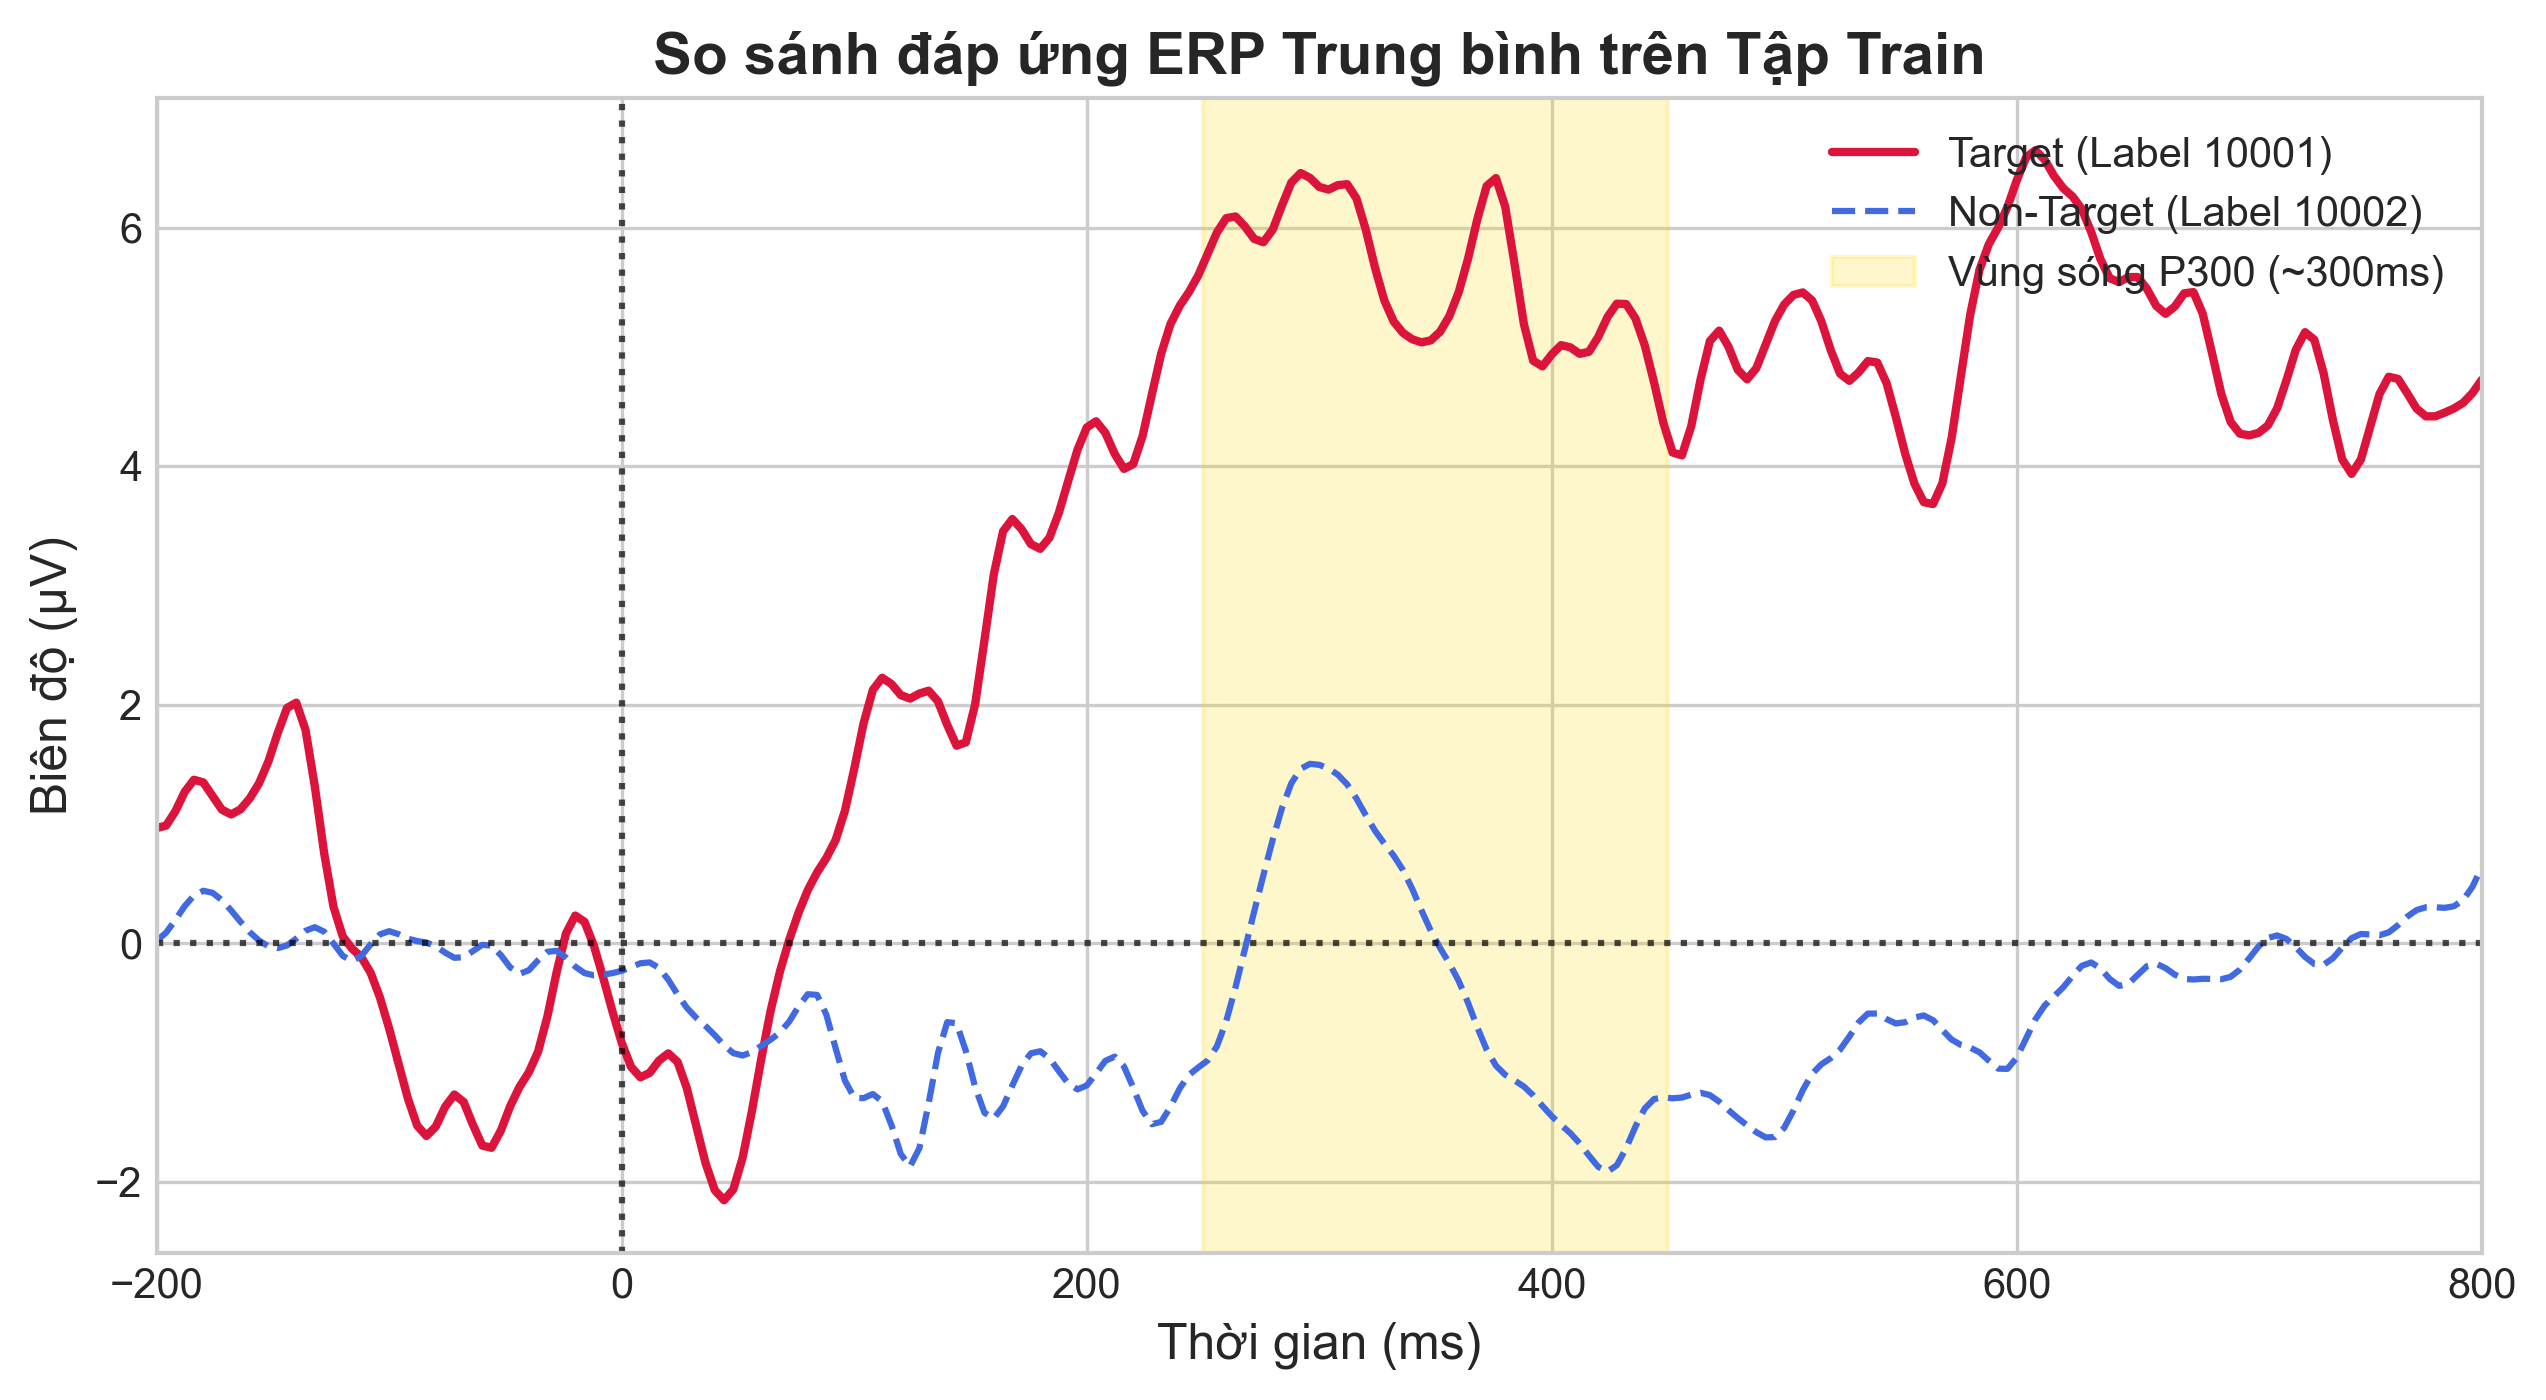
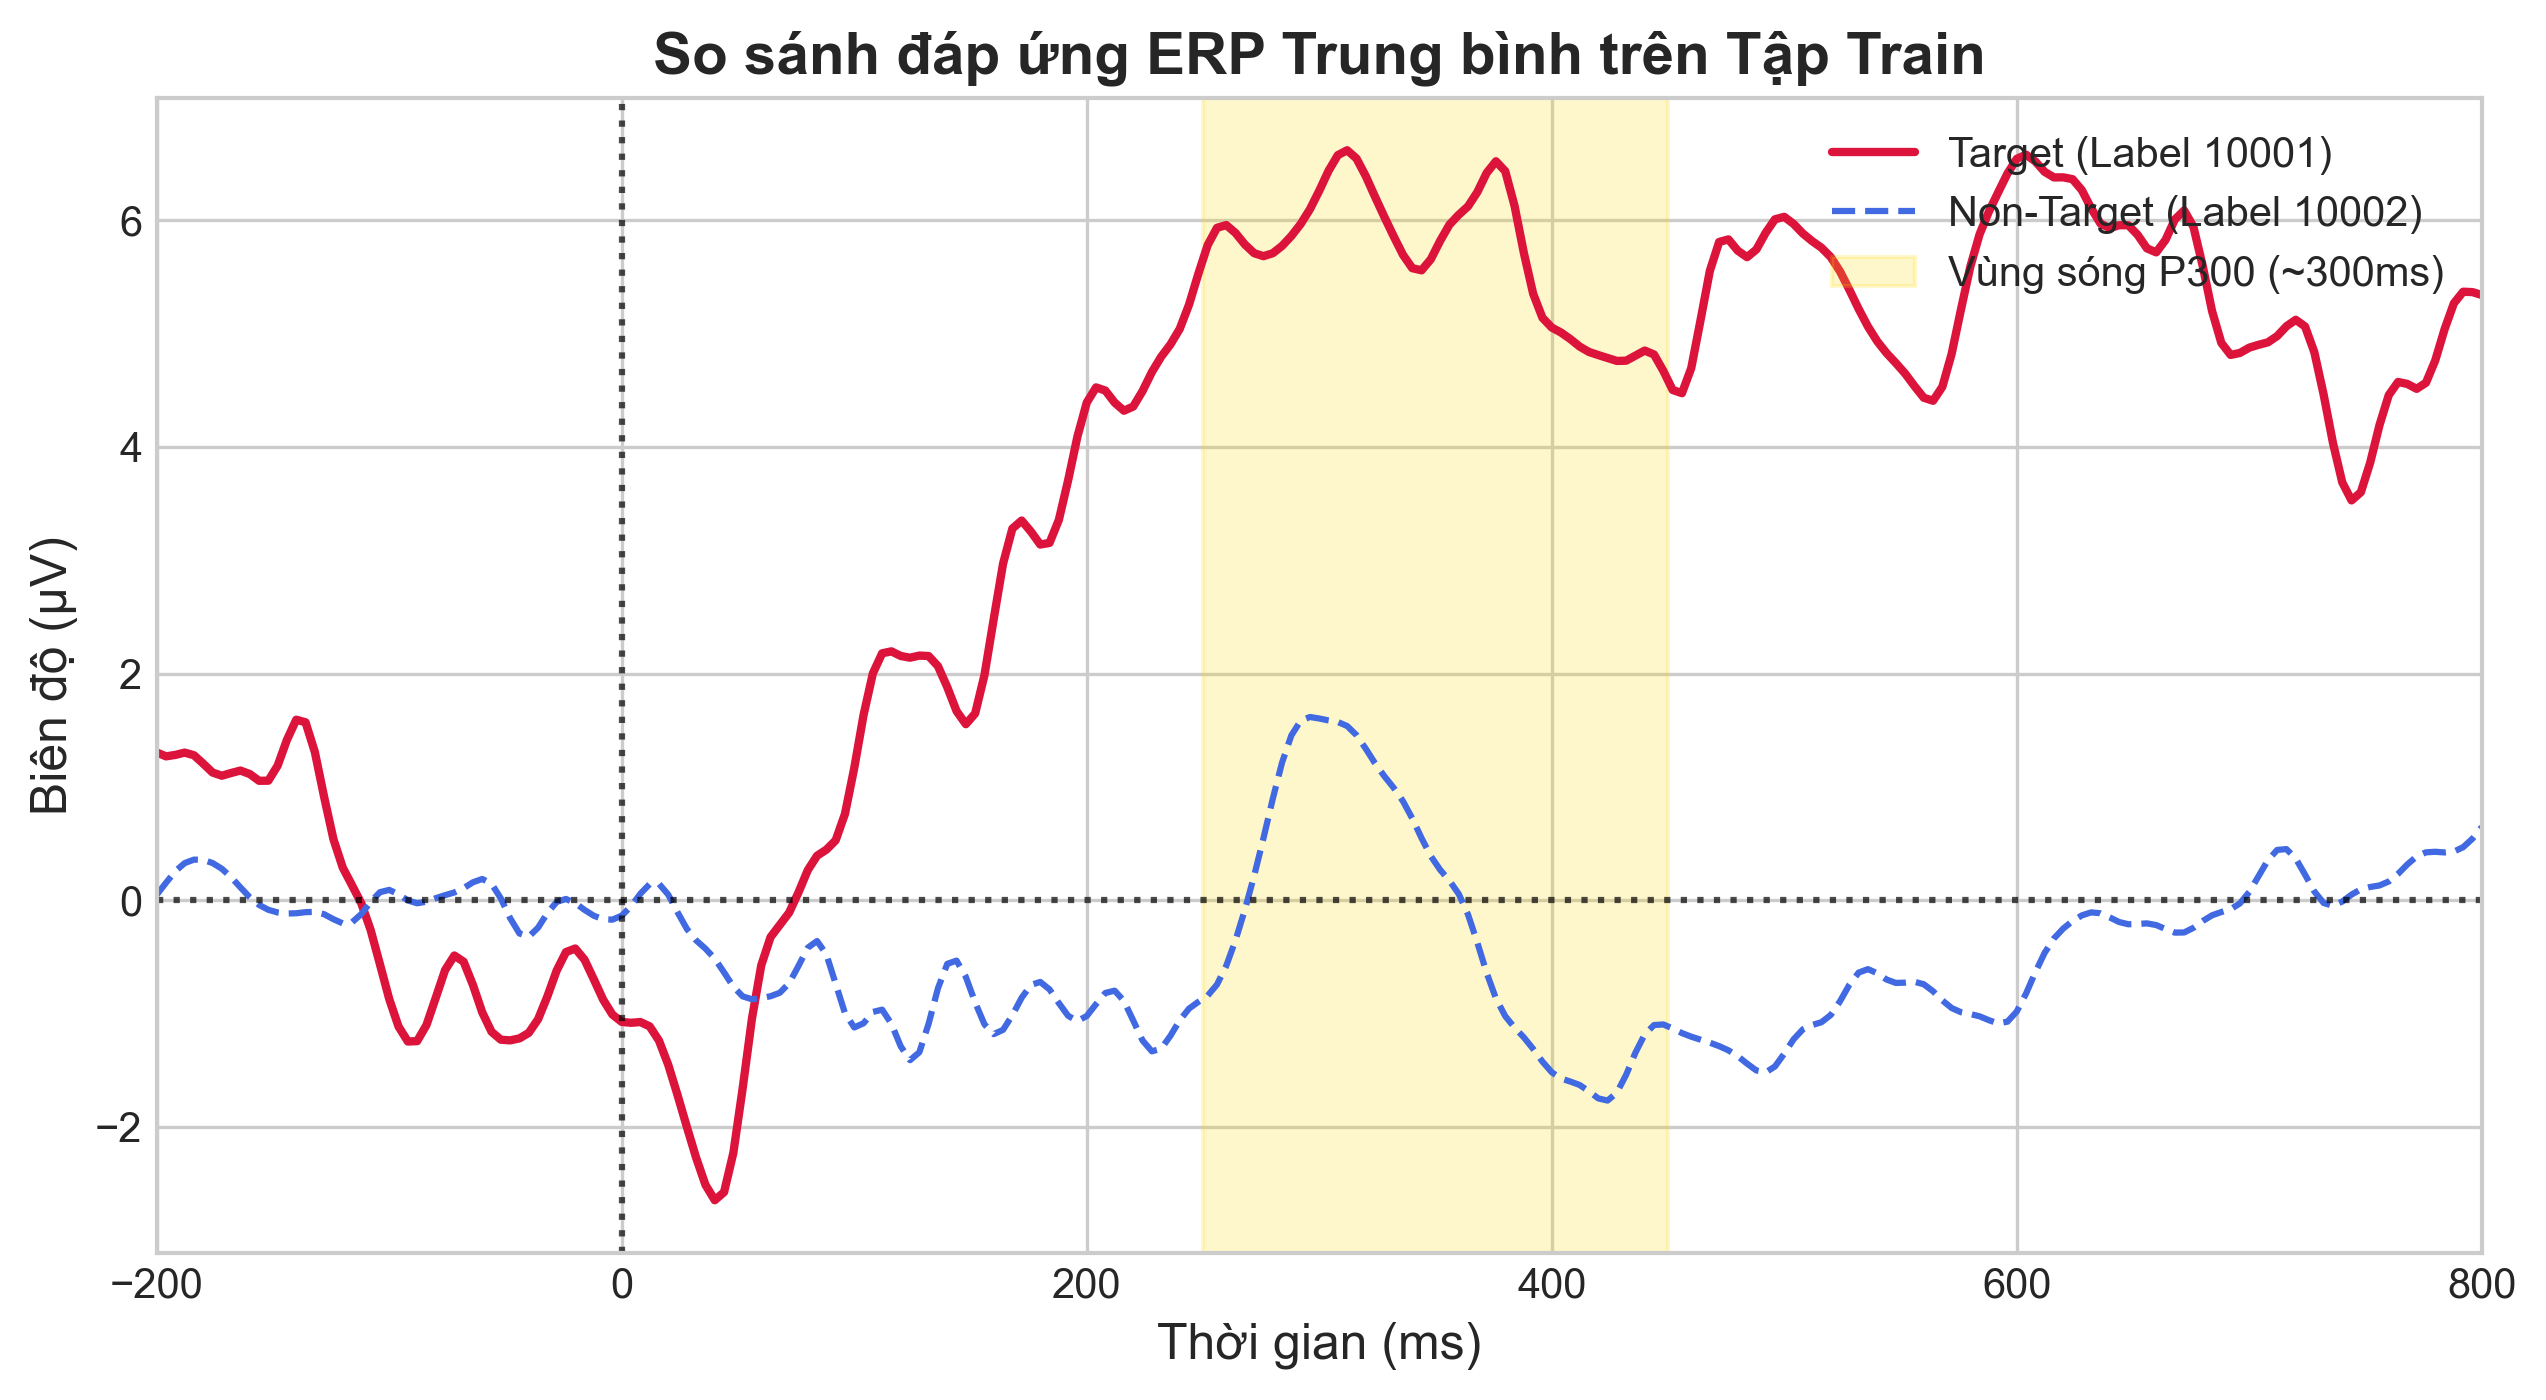
cập nhật vòng huấn luyện lda và trả kết quả

diff --git a/train_lda_pipeline.py b/train_lda_pipeline.py
@@ -1,0 +1,99 @@
+import os
+import numpy as np
+import pandas as pd
+from sklearn.model_selection import train_test_split
+from sklearn.discriminant_analysis import LinearDiscriminantAnalysis
+from sklearn.metrics import balanced_accuracy_score, classification_report
+from process_data import load_data
+from src.eegoddball.config import RESULTS_DIR
+from extract_features import *
+
+def train_lda_pipeline(sub_id, fold_name, file_name = 'lda_predictions_with_features.csv'):
+    output = os.path.join(RESULTS_DIR, file_name)
+    X_base, y_base, X_test, y_test, test_indices = load_data(sub_id, fold_name, flatten = True)
+
+    X_train, X_val, y_train, y_val = train_test_split(
+        X_base, y_base,
+        test_size = 0.2,
+        random_state = 42,
+        stratify = y_base
+    )
+
+    print(f"Train: {X_train.shape[0]} | Val: {X_val.shape[0]} | Test: {X_test.shape[0]}")
+
+    classifier = LinearDiscriminantAnalysis(solver='svd')
+    classifier.fit(X_train, y_train)
+
+    preds = classifier.predict(X_val)
+    print("[Validation] Balanced Accuracy:", balanced_accuracy_score(y_val, preds))
+    print(classification_report(y_val, preds))
+
+    test_preds = classifier.predict(X_test)
+    target_class_idx = np.where(classifier.classes_ == 10001)[0][0]
+    test_probs = classifier.predict_proba(X_test)[:, target_class_idx] if len(np.unique(y_train)) == 2 else np.max(classifier.predict_proba(X_test), axis=1)
+
+    results_df = pd.DataFrame({
+        'trial_id': test_indices,
+        'true_label': y_test,
+        'prediction': test_preds,
+        'probability': test_probs
+    })
+    
+    results_df.to_csv(output, index=False)
+    print(f"[Hoàn tất] File dự đoán lưu tại: {output}")
+    
+    return results_df
+
+def combine_features(X_raw, X_xdawn, sfreq = 250):
+    feat_xdawn = X_xdawn.reshape(X_xdawn.shape[0], -1)
+    feat_window = extract_window_amplitude(X_raw)
+    feat_band = extract_bandpower(X_raw, sfreq=sfreq)
+    feat_se = extract_spectral_entropy(X_raw, sfreq=sfreq)
+    feat_wav = extract_wavelet_features(X_raw)
+
+    return np.hstack([feat_xdawn, feat_window, feat_band, feat_se, feat_wav])
+
+def train_lda_pipeline_with_feat(sub_id, fold_name, file_name = 'lda_predictions.csv'):
+    output = os.path.join(RESULTS_DIR, file_name)
+    X_base, y_base, X_test_raw, y_test, test_indices = load_data(sub_id, fold_name, flatten = False)
+
+    X_train_raw, X_val_raw, y_train, y_val = train_test_split(
+        X_base, y_base,
+        test_size = 0.2,
+        random_state = 42,
+        stratify = y_base
+    )
+
+    print(f"Train: {X_train_raw.shape[0]} | Val: {X_val_raw.shape[0]} | Test: {X_test_raw.shape[0]}")
+
+    X_train_xdawn, X_val_xdawn = extract_xdawn_features(X_train_raw, y_train, X_val_raw)
+    _, X_test_xdawn = extract_xdawn_features(X_train_raw, y_train, X_test_raw)
+
+    X_train = combine_features(X_train_raw, X_train_xdawn)
+    X_val = combine_features(X_val_raw, X_val_xdawn)
+    X_test = combine_features(X_test_raw, X_test_xdawn)
+
+    print(f"Number of features after extracting: {X_train.shape[1]}")
+
+    classifier = LinearDiscriminantAnalysis(solver='lsqr', shrinkage='auto')
+    classifier.fit(X_train, y_train)
+
+    preds = classifier.predict(X_val)
+    print("[Validation] Balanced Accuracy:", balanced_accuracy_score(y_val, preds))
+    print(classification_report(y_val, preds))
+
+    test_preds = classifier.predict(X_test)
+    target_class_idx = np.where(classifier.classes_ == 10001)[0][0]
+    test_probs = classifier.predict_proba(X_test)[:, target_class_idx] if len(np.unique(y_train)) == 2 else np.max(classifier.predict_proba(X_test), axis=1)
+
+    results_df = pd.DataFrame({
+        'trial_id': test_indices,
+        'true_label': y_test,
+        'prediction': test_preds,
+        'probability': test_probs
+    })
+    
+    results_df.to_csv(output, index=False)
+    print(f"[Hoàn tất] File dự đoán lưu tại: {output}")
+    
+    return results_df

diff --git a/test.py b/test.py
@@ -1,7 +1,8 @@
 from extract_features import *
 from process_data import load_data
-
-X_train, y_train, X_test, y_test = load_data('03', 'fold_3', flatten=False)
+from sklearn.metrics import balanced_accuracy_score
+from train_lda_pipeline import train_lda_pipeline, train_lda_pipeline_with_feat
+# X_train, y_train, X_test, y_test, test_indices = load_data('03', 'fold_3', flatten=False)
 
 # sfreq = 250  # Tần số lấy mẫu 250Hz
 
@@ -179,12 +180,35 @@ def visualize_train_data(X_train, y_train, sfreq=250, tmin=-0.2, save_dir="plots
 
 # --- Ví dụ cách chạy trực tiếp ---
 if __name__ == "__main__":
-    # Giả lập dữ liệu X_train (601 trials, 127 channels, 251 timepoints)
-    np.random.seed(42)
-    mock_X_train = X_train  # Đơn vị Volt
-    mock_y_train = y_train  # 0: Standard, 1: Oddball
+# 1. Cấu hình thông số test
+    SUB_ID = "03"
+    FOLD_NAME = "fold_3"
+    OUTPUT_FILE = "sub03_fold3_lda_baseline_with_features.csv"
 
-    # Gọi hàm vẽ
-    visualize_train_data(mock_X_train, mock_y_train, sfreq=250, tmin=-0.2)
+    print(f"=== BẮT ĐẦU TEST HYPERPIPE LDA ON SUB-{SUB_ID} [{FOLD_NAME}] ===")
+    
+    try:
+        # 2. Gọi hàm huấn luyện
+        df_results = train_lda_pipeline_with_feat(
+            sub_id=SUB_ID, 
+            fold_name=FOLD_NAME, 
+            file_name=OUTPUT_FILE
+        )
+        
+        # 3. Kiểm tra và hiển thị kết quả xuất ra
+        print("\n=== KIỂM TRA FILE KẾT QUẢ DỰ ĐOÁN TẬP TEST ===")
+        print(f"Tổng số mẫu dự đoán: {len(df_results)}")
+        print("\n5 dòng đầu tiên của file kết quả:")
+        print(df_results.head())
+        
+        print("\nPhân bố nhãn thực tế vs nhãn dự đoán trên tập Test:")
+        print("True labels:\n", df_results['true_label'].value_counts())
+        print("Predictions:\n", df_results['prediction'].value_counts())
 
-    # print(mock_y_train[:10])
+        # Tính Balanced Accuracy nhanh trên tập Test
+
+        test_bacc = balanced_accuracy_score(df_results['true_label'], df_results['prediction'])
+        print(f"\n[Test Hold-out] Balanced Accuracy: {test_bacc:.4f}")
+
+    except Exception as e:
+        print(f"\n[X] Lỗi trong quá trình chạy test: {e}")

diff --git a/process_data.py b/process_data.py
@@ -6,10 +6,8 @@ import os
 
 def load_data(sub_id, fold_name, flatten = True):
     # 1. Đường dẫn file
-    # json_path = r"d:\Đại Học\Kỳ 1 năm Ba\Tính toán khoa học thần kinh và ứng dụng\EEG_Classification_Project\splits\fold.json"
-    # fif_path = r"d:\Đại Học\Kỳ 1 năm Ba\Tính toán khoa học thần kinh và ứng dụng\EEG_Classification_Project\derivatives\v0\sub-03_task-oddball-epo.fif"
 
-    json_path = os.path.join(SPLIT_DIR, 'fold.json')
+    json_path = os.path.join(SPLIT_DIR, 'folds.json')
     v0_dir = os.path.join(DERIVATIVES_DIR, 'v0')
     fif_path = os.path.join(v0_dir, f"sub-03_task-oddball-epo.fif")
 
@@ -43,4 +41,4 @@ def load_data(sub_id, fold_name, flatten = True):
         X_train = X_train.reshape(X_train.shape[0], -1)
         X_test = X_test.reshape(X_test.shape[0], -1)
 
-    return X_train, y_train, X_test, y_test
+    return X_train, y_train, X_test, y_test, test_indices

diff --git a/extract_features.py b/extract_features.py
@@ -147,7 +147,7 @@ def extract_xdawn_features(X_train, y_train, X_test, sfreq=250, n_components=2):
     X_tr_filt = xdawn.transform(epochs_tr)  # Shape: (n_trials_tr, n_components_total, n_times)
     X_te_filt = xdawn.transform(epochs_te)  # Shape: (n_trials_te, n_components_total, n_times)
     
-    # 6. Phẳng hóa thành Ma trận 特徵 2D (n_trials, n_features)
+    # 6. Phẳng hóa thành Ma trận 2D (n_trials, n_features)
     X_tr_feats = X_tr_filt.reshape(n_trials_tr, -1)
     X_te_feats = X_te_filt.reshape(n_trials_te, -1)
     
